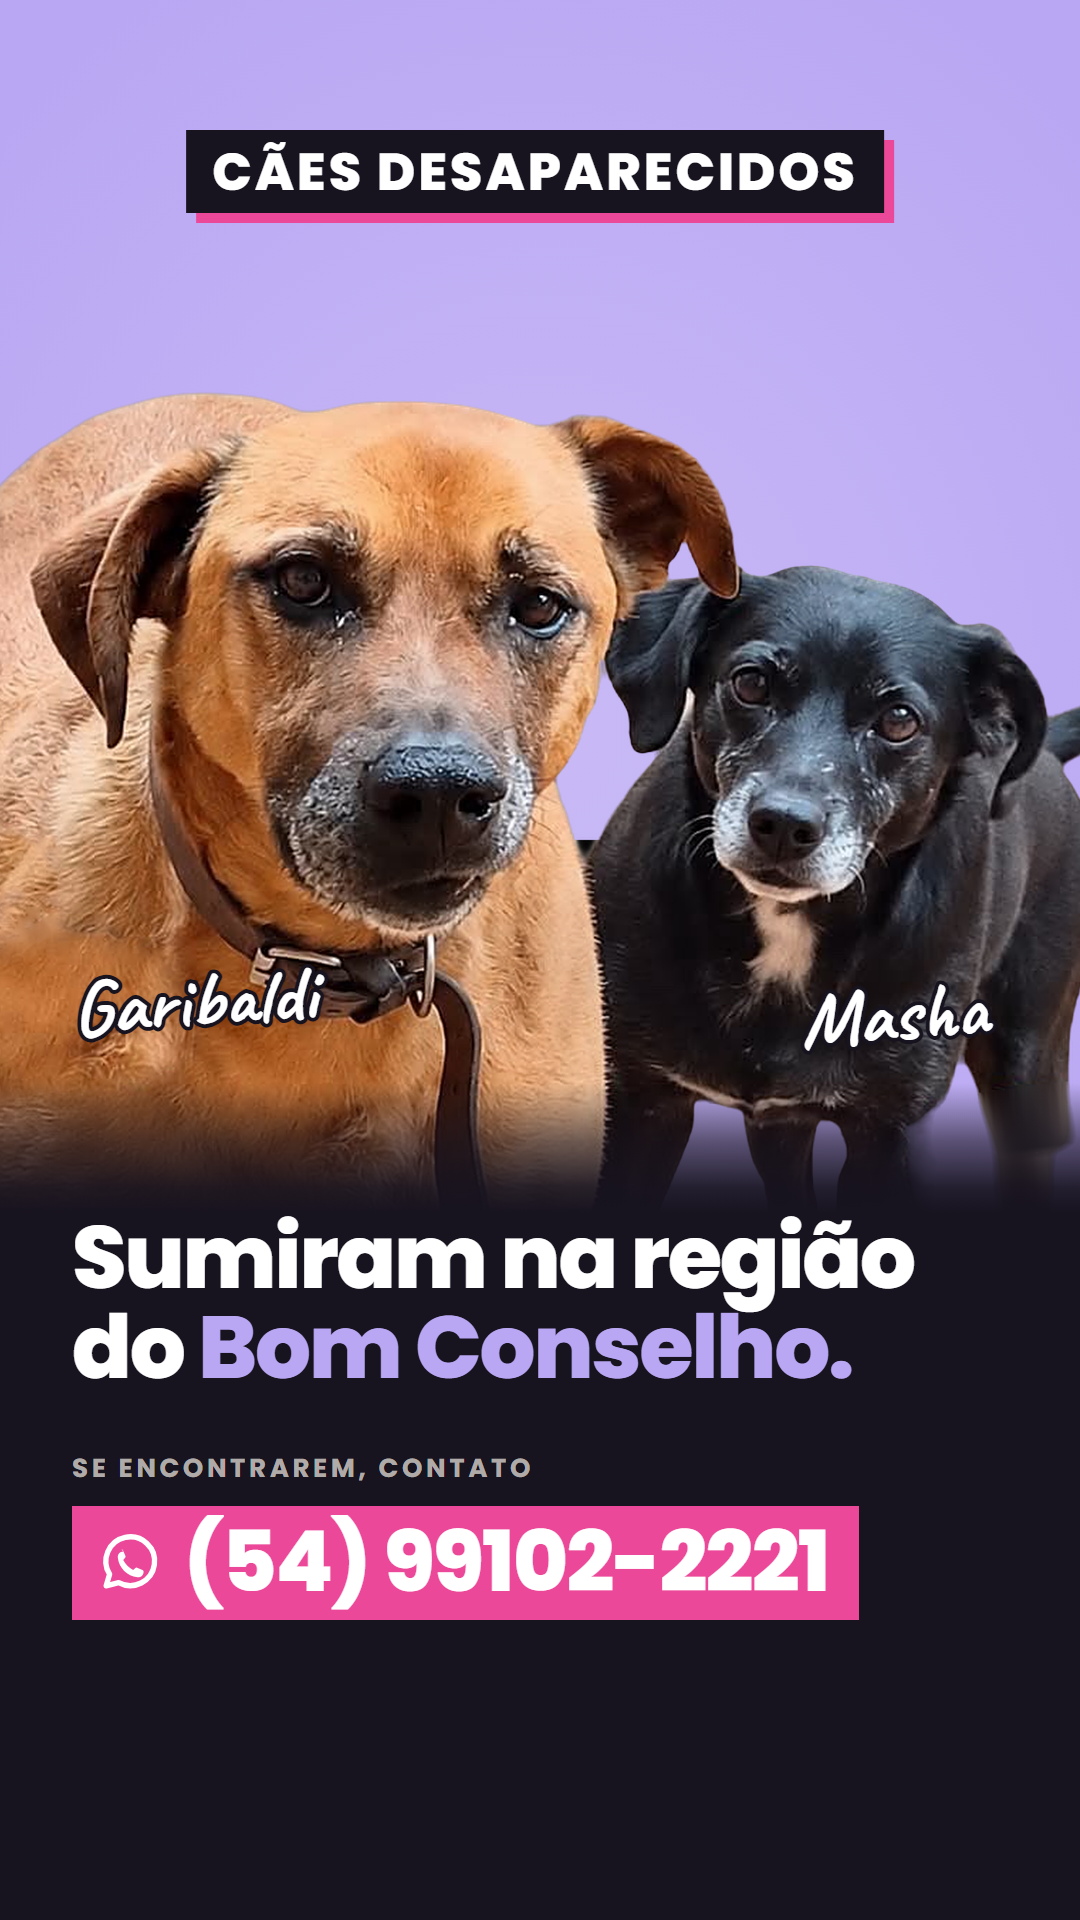
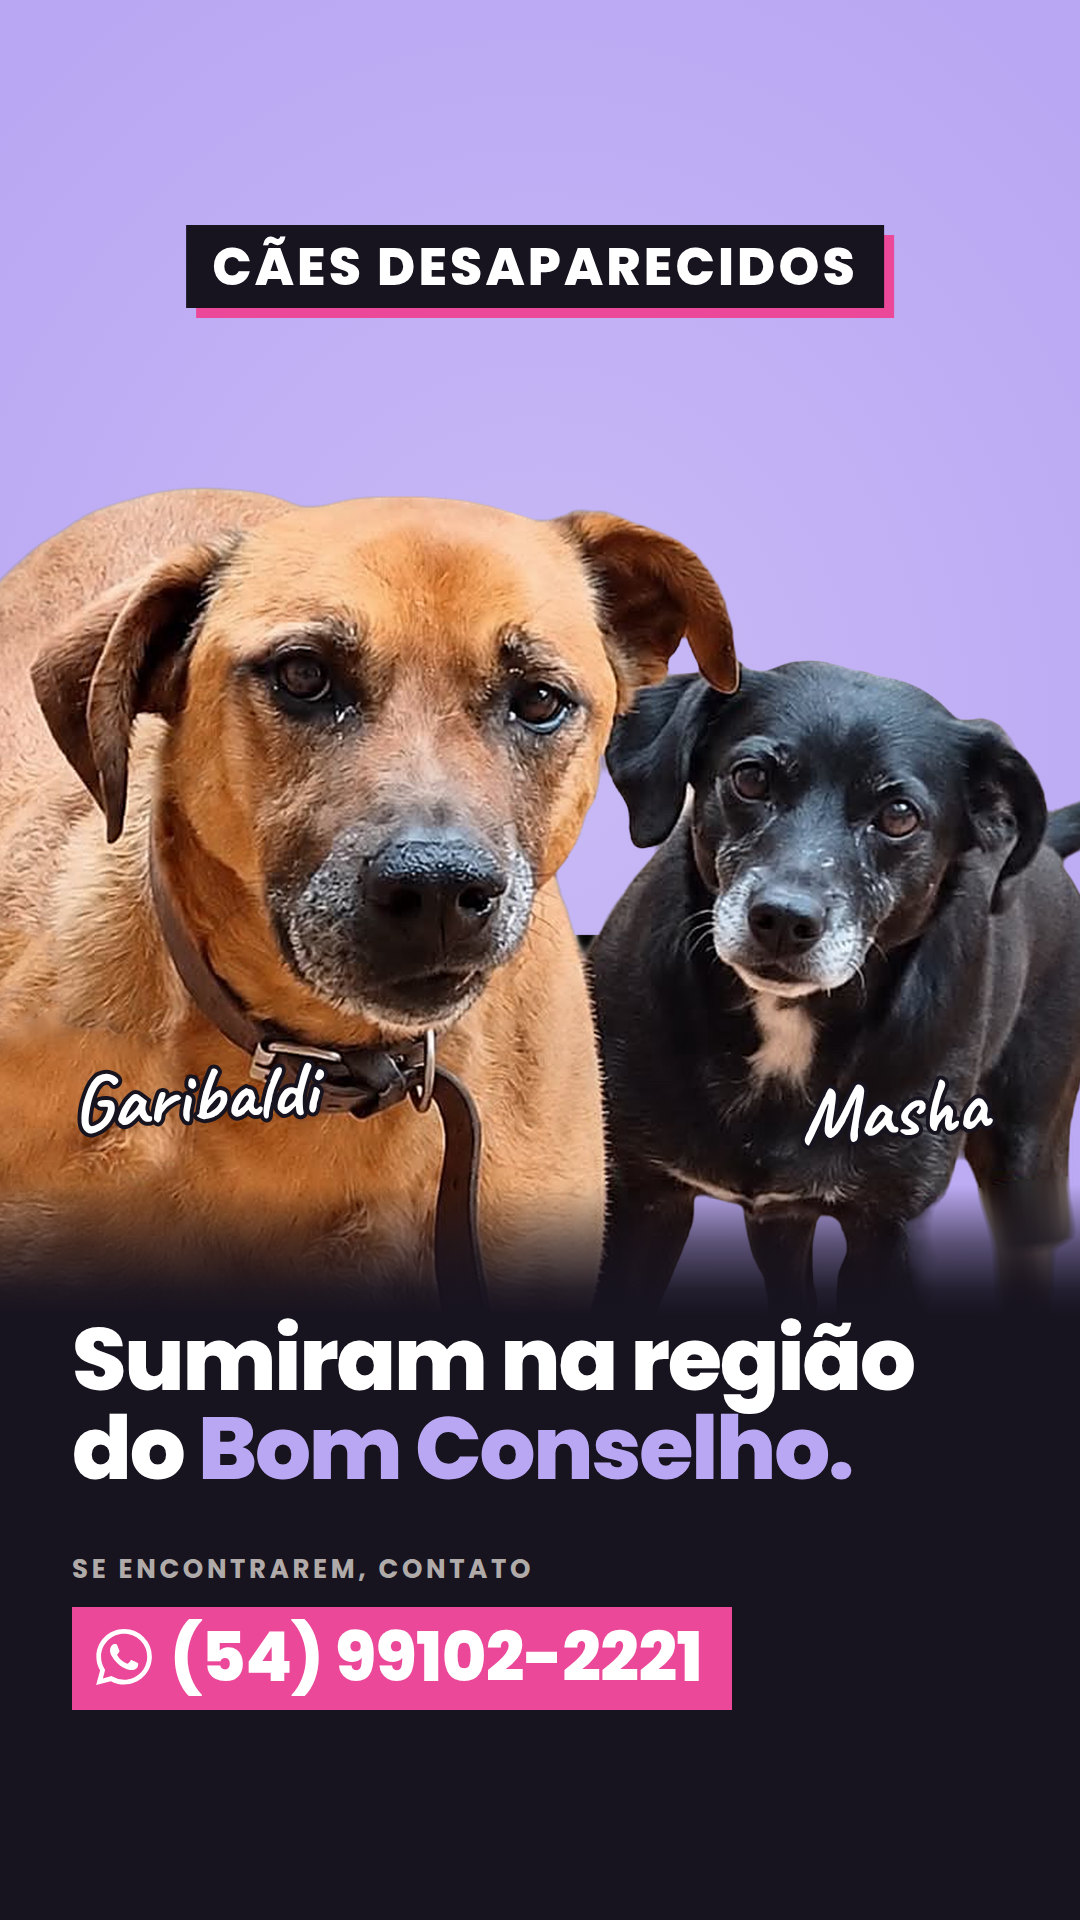
Template de desaparecidos: ícone do WhatsApp, telefone menor e Story mais baixo
- Troca o balão desenhado à mão pelo ícone oficial do WhatsApp.
- Telefone de 84 para 62 px (68 no Story), um degrau abaixo do título.
- No Story, tag, foto e texto descem ~95 px (top 225, bottom 210),
  como já estava no caso Bob; Garibaldi/Masha re-renderizados.

Claude-Session: https://claude.ai/code/session_01LB3FvrkAmk6YFkQbed9wG3

diff --git a/templates/desaparecidos/index.html b/templates/desaparecidos/index.html
@@ -29,7 +29,8 @@ body{background:#000;font-family:P,sans-serif;-webkit-font-smoothing:antialiased
   background:radial-gradient(ellipse 70% 45% at 50% 38%,#C9BAF6 0%,var(--lilac) 100%);
   /* foto: escala e posição da faixa recortada (a faixa começa em y=440 na arte original) */
   --s:1.42;--x:-326px;--y:132px;--top:56px;--bottom:70px;--fade:130px}
-.card.story{height:1920px;--y:357px;--top:130px;--bottom:300px}
+/* Stories: tudo ~95 px mais baixo que o respiro mínimo (a arte ficava alta e sobrava fundo embaixo) */
+.card.story{height:1920px;--y:452px;--top:225px;--bottom:210px}
 
 .recorte{position:absolute;left:var(--x);top:var(--y);width:calc(1145px * var(--s))}
 .cheia{position:absolute;inset:0;width:100%;height:100%;object-fit:cover}
@@ -57,9 +58,12 @@ body{background:#000;font-family:P,sans-serif;-webkit-font-smoothing:antialiased
 .story .h{font-size:88px}
 .rot{margin-top:40px;font-weight:700;font-size:26px;letter-spacing:.14em;text-transform:uppercase;color:rgba(246,241,233,.7)}
 .story .rot{margin-top:56px}
-.tel{margin-top:18px;display:inline-flex;align-items:center;gap:20px;background:var(--pink);
-  padding:12px 30px 14px 24px;font-weight:800;font-size:84px;line-height:1.05;letter-spacing:-.02em}
-.tel svg{width:68px;height:68px;flex:none}
+/* telefone: um degrau abaixo do título (não compete com ele), ícone oficial do WhatsApp na altura das maiúsculas */
+.tel{margin-top:18px;display:inline-flex;align-items:center;gap:18px;background:var(--pink);
+  padding:14px 30px 14px 24px;font-weight:800;font-size:62px;line-height:1.1;letter-spacing:-.01em}
+.tel svg{width:50px;height:50px;flex:none;margin-top:-4px}
+.story .tel{font-size:68px}
+.story .tel svg{width:56px;height:56px}
 </style>
 </head>
 <body>
@@ -73,9 +77,8 @@ body{background:#000;font-family:P,sans-serif;-webkit-font-smoothing:antialiased
     <div class="h">Sumiram na região<br>do <em>Bom Conselho.</em></div>
     <div class="rot">Se encontrarem, contato</div>
     <div class="tel">
-      <svg viewBox="0 0 24 24" fill="none" stroke="#fff" stroke-width="1.9" stroke-linejoin="round">
-        <path d="M3.6 20.4l1.2-4.1A8.6 8.6 0 1 1 8 19.3z"/>
-        <path d="M9 7.6c.3 0 .5.1.6.4l.8 1.9c.1.3 0 .5-.2.7l-.6.7c.8 1.5 2 2.7 3.5 3.5l.7-.6c.2-.2.5-.3.7-.2l1.9.8c.3.1.4.4.4.6 0 1.3-1 2.1-2.2 2-3.6-.4-6.5-3.3-6.9-6.9-.1-1.2.7-2.2 2-2.2z" fill="#fff" stroke="none"/>
+      <svg viewBox="0 0 24 24" fill="#fff" aria-hidden="true">
+        <path d="M17.472 14.382c-.297-.149-1.758-.867-2.03-.967-.273-.099-.471-.148-.67.15-.197.297-.767.966-.94 1.164-.173.199-.347.223-.644.075-.297-.15-1.255-.463-2.39-1.475-.883-.788-1.48-1.761-1.653-2.059-.173-.297-.018-.458.13-.606.134-.133.298-.347.446-.52.149-.174.198-.298.298-.497.099-.198.05-.371-.025-.52-.075-.149-.669-1.612-.916-2.207-.242-.579-.487-.5-.669-.51-.173-.008-.371-.01-.57-.01-.198 0-.52.074-.792.372-.272.297-1.04 1.016-1.04 2.479 0 1.462 1.065 2.875 1.213 3.074.149.198 2.096 3.2 5.077 4.487.709.306 1.262.489 1.694.625.712.227 1.36.195 1.871.118.571-.085 1.758-.719 2.006-1.413.248-.694.248-1.289.173-1.413-.074-.124-.272-.198-.57-.347m-5.421 7.403h-.004a9.87 9.87 0 0 1-5.031-1.378l-.361-.214-3.741.982.998-3.648-.235-.374a9.86 9.86 0 0 1-1.51-5.26c.001-5.45 4.436-9.884 9.888-9.884 2.64 0 5.122 1.03 6.988 2.898a9.825 9.825 0 0 1 2.893 6.994c-.003 5.45-4.437 9.884-9.885 9.884m8.413-18.297A11.815 11.815 0 0 0 12.05 0C5.495 0 .16 5.335.157 11.892c0 2.096.547 4.142 1.588 5.945L.057 24l6.305-1.654a11.882 11.882 0 0 0 5.683 1.448h.005c6.554 0 11.89-5.335 11.893-11.893a11.821 11.821 0 0 0-3.48-8.413z"/>
       </svg>
       <span>(54) 99102-2221</span>
     </div>

diff --git a/templates/desaparecidos/bob.html b/templates/desaparecidos/bob.html
@@ -30,6 +30,7 @@ body{background:#000;font-family:P,sans-serif;-webkit-font-smoothing:antialiased
   background:radial-gradient(ellipse 70% 45% at 50% 38%,#C9BAF6 0%,var(--lilac) 100%);
   /* foto: escala e posição da faixa recortada (a faixa começa em y=440 na arte original) */
   --py:-304px;--top:56px;--bottom:70px;--fade:150px}
+/* Stories: tudo ~95 px mais baixo, como no index.html */
 .card.story{height:1920px;--py:-39px;--top:225px;--bottom:210px;--fade:170px}
 
 .recorte{position:absolute;left:var(--x);top:var(--y);width:calc(1145px * var(--s))}
@@ -61,9 +62,12 @@ body{background:#000;font-family:P,sans-serif;-webkit-font-smoothing:antialiased
 .story .info{font-size:38px;margin-top:30px}
 .rot{margin-top:40px;font-weight:700;font-size:26px;letter-spacing:.14em;text-transform:uppercase;color:rgba(246,241,233,.7)}
 .story .rot{margin-top:56px}
-.tel{margin-top:18px;display:inline-flex;align-items:center;gap:20px;background:var(--pink);
-  padding:12px 30px 14px 24px;font-weight:800;font-size:84px;line-height:1.05;letter-spacing:-.02em}
-.tel svg{width:68px;height:68px;flex:none}
+/* telefone: um degrau abaixo do título (não compete com ele), ícone oficial do WhatsApp na altura das maiúsculas */
+.tel{margin-top:18px;display:inline-flex;align-items:center;gap:18px;background:var(--pink);
+  padding:14px 30px 14px 24px;font-weight:800;font-size:62px;line-height:1.1;letter-spacing:-.01em}
+.tel svg{width:50px;height:50px;flex:none;margin-top:-4px}
+.story .tel{font-size:68px}
+.story .tel svg{width:56px;height:56px}
 </style>
 </head>
 <body>
@@ -77,9 +81,8 @@ body{background:#000;font-family:P,sans-serif;-webkit-font-smoothing:antialiased
     <div class="info">Macho, idoso, porte médio a pequeno, castrado.</div>
     <div class="rot">Qualquer informação</div>
     <div class="tel">
-      <svg viewBox="0 0 24 24" fill="none" stroke="#fff" stroke-width="1.9" stroke-linejoin="round">
-        <path d="M3.6 20.4l1.2-4.1A8.6 8.6 0 1 1 8 19.3z"/>
-        <path d="M9 7.6c.3 0 .5.1.6.4l.8 1.9c.1.3 0 .5-.2.7l-.6.7c.8 1.5 2 2.7 3.5 3.5l.7-.6c.2-.2.5-.3.7-.2l1.9.8c.3.1.4.4.4.6 0 1.3-1 2.1-2.2 2-3.6-.4-6.5-3.3-6.9-6.9-.1-1.2.7-2.2 2-2.2z" fill="#fff" stroke="none"/>
+      <svg viewBox="0 0 24 24" fill="#fff" aria-hidden="true">
+        <path d="M17.472 14.382c-.297-.149-1.758-.867-2.03-.967-.273-.099-.471-.148-.67.15-.197.297-.767.966-.94 1.164-.173.199-.347.223-.644.075-.297-.15-1.255-.463-2.39-1.475-.883-.788-1.48-1.761-1.653-2.059-.173-.297-.018-.458.13-.606.134-.133.298-.347.446-.52.149-.174.198-.298.298-.497.099-.198.05-.371-.025-.52-.075-.149-.669-1.612-.916-2.207-.242-.579-.487-.5-.669-.51-.173-.008-.371-.01-.57-.01-.198 0-.52.074-.792.372-.272.297-1.04 1.016-1.04 2.479 0 1.462 1.065 2.875 1.213 3.074.149.198 2.096 3.2 5.077 4.487.709.306 1.262.489 1.694.625.712.227 1.36.195 1.871.118.571-.085 1.758-.719 2.006-1.413.248-.694.248-1.289.173-1.413-.074-.124-.272-.198-.57-.347m-5.421 7.403h-.004a9.87 9.87 0 0 1-5.031-1.378l-.361-.214-3.741.982.998-3.648-.235-.374a9.86 9.86 0 0 1-1.51-5.26c.001-5.45 4.436-9.884 9.888-9.884 2.64 0 5.122 1.03 6.988 2.898a9.825 9.825 0 0 1 2.893 6.994c-.003 5.45-4.437 9.884-9.885 9.884m8.413-18.297A11.815 11.815 0 0 0 12.05 0C5.495 0 .16 5.335.157 11.892c0 2.096.547 4.142 1.588 5.945L.057 24l6.305-1.654a11.882 11.882 0 0 0 5.683 1.448h.005c6.554 0 11.89-5.335 11.893-11.893a11.821 11.821 0 0 0-3.48-8.413z"/>
       </svg>
       <span>(54) 99144-3894</span>
     </div>

diff --git a/CLAUDE.md b/CLAUDE.md
@@ -73,6 +73,7 @@ templates/    # templates reutilizáveis na identidade da Zoe, sem o nome escrit
   fonts/        # Poppins + Caveat compartilhadas pelos templates
   desaparecidos/  # alerta de desaparecido: feed 1080x1350 + Stories 1080x1920 do mesmo index.html
     index.html    # fundo lilás, degradê ink, tag em caixa ink, nomes em Caveat, telefone em caixa rosa
+                  # telefone 62 px (68 no Story) com o ícone oficial do WhatsApp; no Story, tag em top 225 e texto a 210 px do pé
     render.sh     # Chrome headless → saida/<nome>-feed.png e saida/<nome>-story.png (ex.: ./render.sh garibaldi-masha); usa <nome>.html se existir
     bob.html      # variante com foto comum no topo (em vez do recorte) e linha extra de características (caso Bob)
     recorte.py    # recorta os cães da arte recebida (rembg + opencv num venv temporário) → img/
